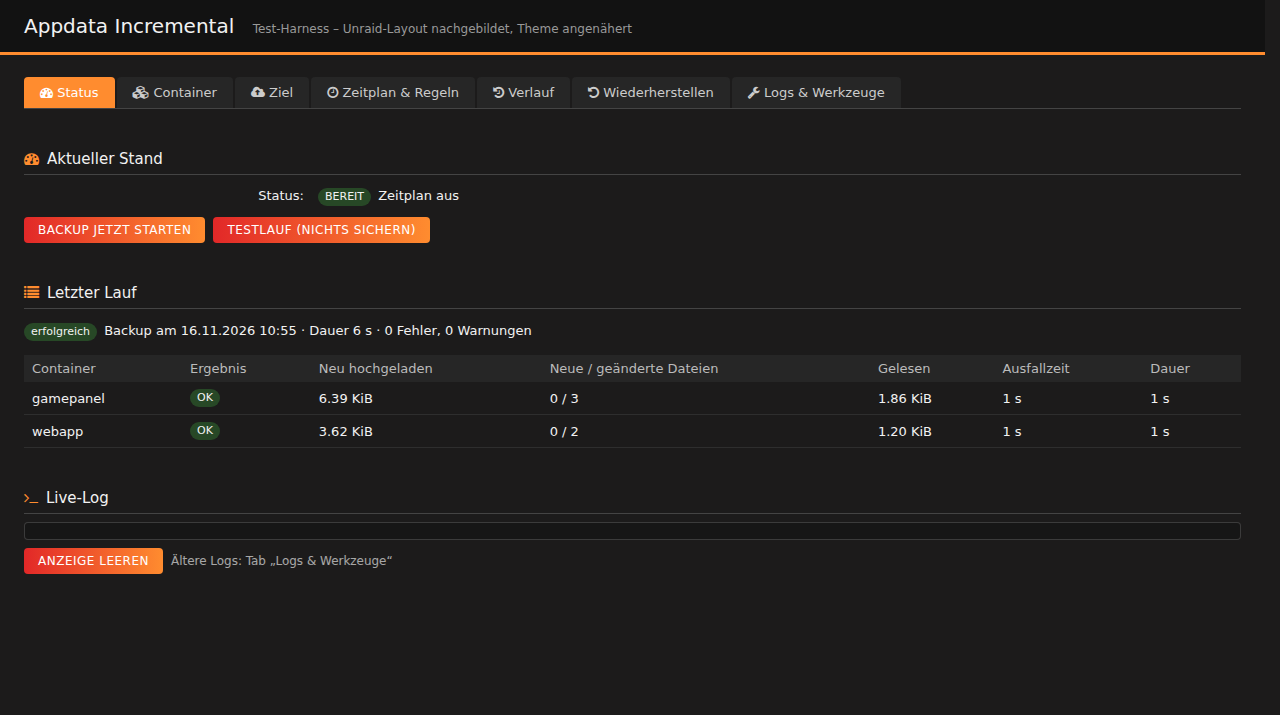
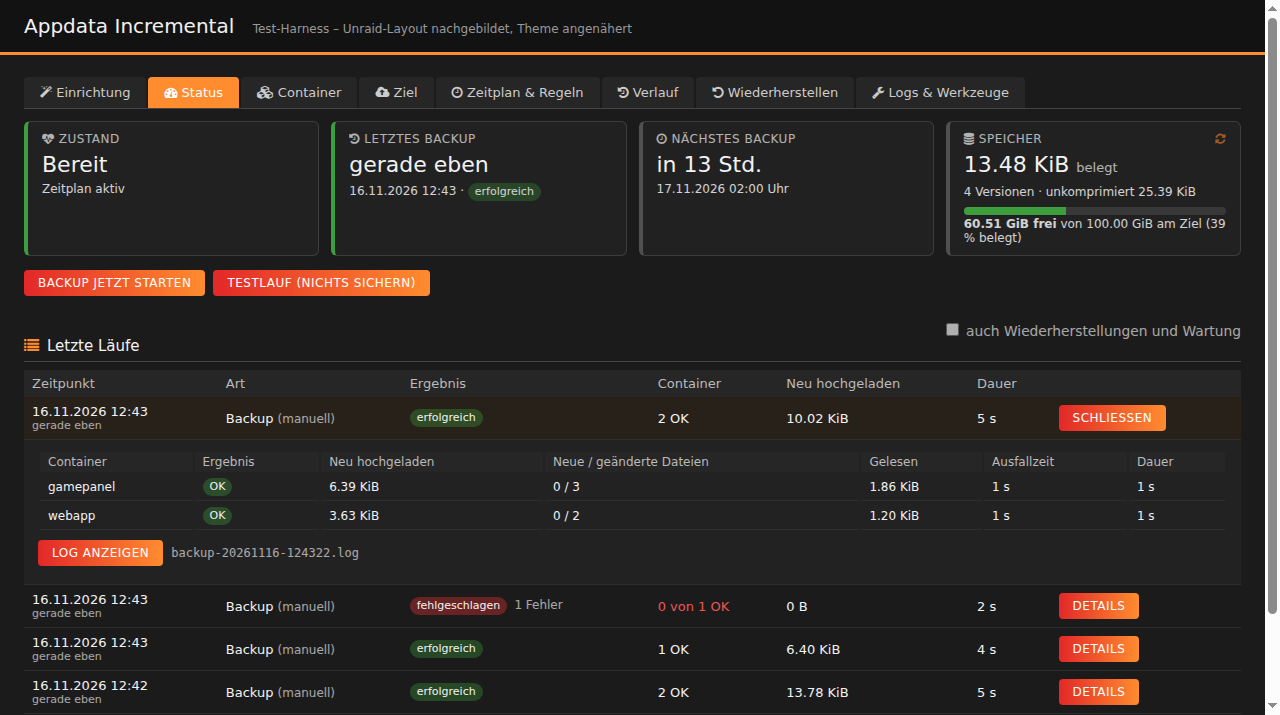
Status page: tiles, running job, run history, storage usage
- Tiles for state, last backup, next scheduled backup (cron next-run),
  storage (repository size via restic stats, versions, free space at the
  target via sftp df or local disk)
- Running job panel with container x of y, overall progress, elapsed time
- History of the last runs (kept in state) with per-container details and
  log per run; repository stats refreshed after each successful backup

diff --git a/src/usr/local/emhttp/plugins/appdata-incremental/js/aib.js b/src/usr/local/emhttp/plugins/appdata-incremental/js/aib.js
@@ -73,8 +73,26 @@
   };
 
   // ------------------------------------------------------------------ status
+  A.ago = function (iso, now) {
+    if (!iso) return '';
+    var s = Math.round(((now ? new Date(now) : new Date()) - new Date(iso)) / 1000);
+    if (s < 60) return 'gerade eben';
+    if (s < 3600) return 'vor ' + Math.round(s / 60) + ' min';
+    if (s < 86400) return 'vor ' + Math.round(s / 3600) + ' Std.';
+    return 'vor ' + Math.round(s / 86400) + ' Tagen';
+  };
+  A.until = function (iso, now) {
+    if (!iso) return '';
+    var s = Math.round((new Date(iso) - (now ? new Date(now) : new Date())) / 1000);
+    if (s < 3600) return 'in ' + Math.max(1, Math.round(s / 60)) + ' min';
+    if (s < 86400) return 'in ' + Math.round(s / 3600) + ' Std.';
+    return 'in ' + Math.round(s / 86400) + ' Tagen';
+  };
+  var RES = { ok: ['green', 'erfolgreich'], warning: ['orange', 'mit Warnungen'], error: ['red', 'fehlgeschlagen'] };
+  var CRES = { ok: ['green', 'OK'], warning: ['orange', 'Warnung'], error: ['red', 'Fehler'], cancelled: ['red', 'abgebrochen'], pending: ['red', 'abgebrochen'] };
+
   var Status = {
-    file: '', offset: 0, timer: null, wasRunning: false,
+    file: '', offset: 0, timer: null, wasRunning: false, s: null, open: {},
     init: function () {
       var $s = $('#aib-status'); if (!$s.length) return;
       $('#aib-run-all').on('click', function () {
@@ -86,22 +104,30 @@
           A.api('cancel').then(function (d) { A.msg('#aib-status-msg', d.message, 'info'); Status.poll(); }, function (e) { A.msg('#aib-status-msg', e, 'err'); });
         }, true);
       });
-      $('#aib-log-clear').on('click', function () { $('#aib-livelog').text(''); });
+      $('#aib-store-refresh').on('click', function (e) { e.preventDefault(); Status.storage(true); });
+      $('#aib-hist-all').on('change', function () { if (Status.s) Status.runs(Status.s); });
+      $('#aib-runs').on('click', '.aib-rundet', function () {
+        var k = String($(this).data('k')); Status.open[k] = !Status.open[k]; Status.runs(Status.s);
+      }).on('click', '.aib-runlog', function () {
+        var n = $(this).data('log'), $box = $(this).closest('td').find('.aib-runlogbox');
+        A.api('log', { name: n }).then(function (r) { $box.text(r.data).show(); }, function (e) { $box.text(e).show(); });
+      });
       Status.poll();
+      Status.storage(false);
     },
     start: function (kind, cts) {
       A.msg('#aib-status-msg', '');
       return A.api('run', { kind: kind, containers: cts }).then(function () {
-        A.msg('#aib-status-msg', kind === 'dryrun' ? 'Testlauf gestartet – es wird nichts gesichert und kein Container gestoppt.' : 'Gestartet.', 'ok');
-        Status.file = ''; Status.offset = 0; $('#aib-livelog').text(''); Status.poll();
+        A.msg('#aib-status-msg', kind === 'dryrun' ? 'Testlauf gestartet – es wird nichts gesichert und kein Container gestoppt.' : 'Backup gestartet.', 'ok');
+        Status.file = ''; Status.offset = 0; $('#aib-livelog').text(''); $('#aib-live').prop('open', true); Status.poll();
       }, function (e) { A.msg('#aib-status-msg', e, 'err'); });
     },
     poll: function () {
       clearTimeout(Status.timer);
       A.api('state').then(function (s) {
-        Status.render(s);
+        Status.s = s; Status.render(s);
         if (s.running || Status.wasRunning || !Status.file) Status.tail();
-        if (Status.wasRunning && !s.running) { if (A.History) A.History.load(false); if (A.Tools) A.Tools.logs(); }
+        if (Status.wasRunning && !s.running) { if (A.History) A.History.load(false); if (A.Tools) A.Tools.logs(); Status.storage(false); }
         Status.wasRunning = s.running;
         Status.timer = setTimeout(Status.poll, s.running ? 2000 : 15000);
       }, function () { Status.timer = setTimeout(Status.poll, 15000); });
@@ -119,40 +145,93 @@
         $('#aib-logname').text(d.file || '');
       });
     },
+    tile: function (id, val, sub, cls) {
+      var $t = $('#' + id);
+      $t.removeClass('green orange red').addClass(cls || '');
+      $t.find('.aib-tile-v').html(val); $t.find('.aib-tile-s').first().html(sub || '');
+    },
+    storage: function (refresh) {
+      var $t = $('#aib-t-store');
+      if (refresh) $t.find('.aib-tile-v').html('<i class="fa fa-spinner fa-spin"></i>');
+      A.api('storage', { refresh: refresh ? 1 : 0 }).then(function (d) {
+        var r = d.repo, t = d.target;
+        $t.find('.aib-tile-v').html(r && r.stored !== null ? A.human(r.stored) + ' <span class="aib-tile-unit">belegt</span>' : '–');
+        $t.find('.aib-tile-s').first().html(r ? (r.snapshots !== null ? r.snapshots + ' Versionen' : '') +
+          (r.uncompressed ? ' · unkomprimiert ' + A.human(r.uncompressed) : '') : 'noch keine Daten');
+        if (t && t.free !== null && t.total) {
+          var pct = Math.round(100 * (t.total - t.free) / t.total);
+          $t.find('.aib-bar').show().children().css('width', pct + '%').toggleClass('warn', pct >= 85);
+          $t.find('.aib-tile-s2').html('<b>' + A.human(t.free) + ' frei</b> von ' + A.human(t.total) + ' am Ziel (' + pct + ' % belegt)');
+        } else {
+          $t.find('.aib-bar').hide();
+          $t.find('.aib-tile-s2').text(t && t.error ? 'Freier Platz am Ziel: ' + t.error : '');
+        }
+      }, function (e) { $t.find('.aib-tile-v').text('–'); $t.find('.aib-tile-s2').text(e); });
+    },
     render: function (s) {
-      var phases = { start: 'Start', stop: 'Container werden gestoppt', snapshot: 'Snapshot', backup: 'Sicherung läuft', forget: 'Aufbewahrung', prune: 'Aufräumen', check: 'Prüfung', restore: 'Wiederherstellung', idle: 'Bereit' };
-      var $b = $('#aib-state');
-      if (s.running) {
-        var t = (s.kind || 'Vorgang') + ' läuft seit ' + A.date(s.started) + ' – ' + (phases[s.phase] || s.phase || '') + (s.current ? ' (' + s.current + ')' : '');
-        $b.html('<span class="aib-badge orange">LÄUFT</span> ' + A.esc(t));
-        var p = s.progress;
-        if (p && s.phase === 'backup') {
-          $('#aib-progress').show().children().css('width', Math.min(100, p.percent || 0) + '%');
-          $('#aib-progress-text').text(p.container + ': ' + (p.percent || 0) + ' % – ' + A.human(p.bytes_done) + ' von ' + A.human(p.total_bytes) + ', ' + (p.files_done || 0) + ' von ' + (p.total_files || 0) + ' Dateien');
-        } else { $('#aib-progress').hide(); $('#aib-progress-text').text(''); }
-        $('#aib-cancel').show(); $('#aib-run-all,#aib-run-dry').prop('disabled', true);
-      } else {
-        $b.html('<span class="aib-badge green">BEREIT</span> ' + (s.schedule_active ? 'Zeitplan aktiv (' + A.esc(s.schedule) + ')' : 'Zeitplan aus'));
-        $('#aib-progress').hide(); $('#aib-progress-text').text('');
-        $('#aib-cancel').hide(); $('#aib-run-all,#aib-run-dry').prop('disabled', !s.configured);
-      }
+      var phases = { start: 'Vorbereitung', stop: 'Container werden gestoppt', snapshot: 'Snapshot wird erstellt', backup: 'Daten werden gesichert', forget: 'Alte Versionen aufräumen',
+        prune: 'Speicher aufräumen', check: 'Prüfung', restore: 'Wiederherstellung', unlock: 'Sperren lösen', idle: '' };
       $('#aib-setup-hint').toggle(!s.configured);
-      var l = s.last, $t = $('#aib-last');
-      if (!l) { $t.html('<p class="aib-muted">Noch kein Lauf.</p>'); return; }
-      var cls = { ok: 'green', warning: 'orange', error: 'red' }[l.result] || '';
-      var txt = { ok: 'erfolgreich', warning: 'mit Warnungen', error: 'fehlgeschlagen' }[l.result] || l.result;
-      var h = '<p><span class="aib-badge ' + cls + '">' + A.esc(txt) + '</span> ' + A.esc(l.kind) + ' am ' + A.date(l.finished) +
-        ' · Dauer ' + A.dur(l.duration) + ' · ' + l.errors + ' Fehler, ' + l.warnings + ' Warnungen</p>';
-      var rows = '';
-      $.each(l.containers || {}, function (n, r) {
-        var rc = { ok: 'green', warning: 'orange', error: 'red', cancelled: 'red' }[r.status] || '';
-        var rt = { ok: 'OK', warning: 'Warnung', error: 'Fehler', cancelled: 'abgebrochen', pending: 'abgebrochen' }[r.status] || r.status;
-        rows += '<tr><td>' + A.esc(n) + '</td><td><span class="aib-badge ' + rc + '">' + A.esc(rt) + '</span></td><td>' + A.human(r.data_added) +
-          '</td><td>' + (r.files_new === null || r.files_new === undefined ? '–' : r.files_new + ' / ' + r.files_changed) + '</td><td>' + A.human(r.total_bytes) +
-          '</td><td>' + (r.downtime ? A.dur(r.downtime) : '–') + '</td><td>' + A.dur(r.duration) + '</td></tr>';
+      // tile: state
+      if (s.running) Status.tile('aib-t-state', 'Läuft', A.esc(s.kind || 'Vorgang'), 'orange');
+      else if (!s.configured) Status.tile('aib-t-state', 'Nicht eingerichtet', '<a href="#" onclick="AIB.gotoTab(\'Einrichtung\');return false">Einrichtung starten</a>', 'orange');
+      else if (s.last && s.last.result === 'error') Status.tile('aib-t-state', 'Achtung', 'letzter Lauf fehlgeschlagen', 'red');
+      else Status.tile('aib-t-state', 'Bereit', s.schedule_active ? 'Zeitplan aktiv' : 'Zeitplan aus', 'green');
+      // tile: last backup
+      var lb = null; $.each(s.history || [], function (_, h) { if (!lb && h.kind === 'Backup') lb = h; });
+      if (lb) { var rr = RES[lb.result] || ['', lb.result]; Status.tile('aib-t-last', A.ago(lb.finished, s.now), A.date(lb.finished) + ' · <span class="aib-badge ' + rr[0] + '">' + rr[1] + '</span>', rr[0]); }
+      else Status.tile('aib-t-last', 'noch keins', '', '');
+      // tile: next
+      Status.tile('aib-t-next', s.next_run ? A.until(s.next_run, s.now) : 'kein Zeitplan', s.next_run ? A.date(s.next_run) + ' Uhr' :
+        '<a href="#" onclick="AIB.gotoTab(\'Zeitplan & Regeln\');return false">Zeitplan einstellen</a>', '');
+      // running job
+      if (s.running) {
+        $('#aib-job').show();
+        $('#aib-job-title').text(s.kind || 'Vorgang');
+        $('#aib-job-time').text('seit ' + A.date(s.started) + ' (' + A.dur((new Date(s.now) - new Date(s.started)) / 1000) + ')');
+        var ph = phases[s.phase] || s.phase || '';
+        var cnt = s.run_total ? ' – Container ' + Math.min((s.run_done || 0) + 1, s.run_total) + ' von ' + s.run_total : '';
+        $('#aib-job-phase').html('<b>' + A.esc(ph) + '</b>' + (s.current ? ': ' + A.esc(s.current) : '') + A.esc(cnt));
+        var p = s.progress, pct = 0, det = '';
+        if (s.run_total) pct = 100 * (s.run_done || 0) / s.run_total;
+        if (p && s.phase === 'backup') {
+          if (s.run_total) pct += (p.percent || 0) / s.run_total;
+          det = A.esc(p.container) + ': ' + (p.percent || 0) + ' % · ' + A.human(p.bytes_done) + ' von ' + A.human(p.total_bytes) + ' · ' + (p.files_done || 0) + ' von ' + (p.total_files || 0) + ' Dateien';
+        }
+        $('#aib-job-bar').css('width', Math.min(100, pct) + '%');
+        $('#aib-job-detail').html(det);
+        $('#aib-run-all,#aib-run-dry').prop('disabled', true);
+      } else {
+        $('#aib-job').hide();
+        $('#aib-run-all,#aib-run-dry').prop('disabled', !s.configured);
+      }
+      Status.runs(s);
+    },
+    runs: function (s) {
+      var all = $('#aib-hist-all').prop('checked'), h = '', shown = 0;
+      $.each(s.history || [], function (i, r) {
+        if (!all && r.kind !== 'Backup' && r.kind !== 'Testlauf') return;
+        if (++shown > 25) return;
+        var k = String(r.finished || i), rr = RES[r.result] || ['', r.result], cts = r.containers || {}, n = 0, bad = 0;
+        $.each(cts, function (_, c) { n++; if (c.status !== 'ok') bad++; });
+        var ctTxt = n ? (bad ? (n - bad) + ' von ' + n + ' OK' : n + ' OK') : '–';
+        h += '<tr' + (Status.open[k] ? ' class="aib-open"' : '') + '><td>' + A.date(r.finished) + '<div class="aib-muted" style="font-size:11px">' + A.ago(r.finished, s.now) + '</div></td>' +
+          '<td>' + A.esc(r.kind) + (r.trigger ? ' <span class="aib-muted">(' + A.esc(r.trigger) + ')</span>' : '') + '</td>' +
+          '<td><span class="aib-badge ' + rr[0] + '">' + rr[1] + '</span>' + (r.errors ? ' <span class="aib-muted">' + r.errors + ' Fehler</span>' : '') + '</td>' +
+          '<td>' + (bad ? '<span style="color:#e55">' + ctTxt + '</span>' : ctTxt) + '</td><td>' + (r.kind === 'Backup' ? A.human(r.data_added) : '–') + '</td><td>' + A.dur(r.duration) + '</td>' +
+          '<td><input type="button" class="aib-rundet" data-k="' + A.esc(k) + '" value="' + (Status.open[k] ? 'Schließen' : 'Details') + '"></td></tr>';
+        if (Status.open[k]) {
+          var rows = '';
+          $.each(cts, function (name, c) {
+            var cr = CRES[c.status] || ['', c.status];
+            rows += '<tr><td>' + A.esc(name) + '</td><td><span class="aib-badge ' + cr[0] + '">' + cr[1] + '</span></td><td>' + A.human(c.data_added) + '</td><td>' +
+              (c.files_new === null || c.files_new === undefined ? '–' : c.files_new + ' / ' + c.files_changed) + '</td><td>' + A.human(c.total_bytes) + '</td><td>' + (c.downtime ? A.dur(c.downtime) : '–') + '</td><td>' + A.dur(c.duration) + '</td></tr>';
+          });
+          h += '<tr class="aib-detail"><td colspan="7">' + (rows ? '<table class="aib-table aib-sub"><thead><tr><th>Container</th><th>Ergebnis</th><th>Neu hochgeladen</th><th>Neue / geänderte Dateien</th><th>Gelesen</th><th>Ausfallzeit</th><th>Dauer</th></tr></thead><tbody>' + rows + '</tbody></table>' : '') +
+            (r.log ? '<div class="aib-row"><input type="button" class="aib-runlog" data-log="' + A.esc(r.log) + '" value="Log anzeigen"> <span class="aib-muted aib-mono">' + A.esc(r.log) + '</span></div><div class="aib-log aib-runlogbox" style="display:none"></div>' : '') + '</td></tr>';
+        }
       });
-      if (rows) h += '<table class="tablesorter shift aib-table"><thead><tr><th>Container</th><th>Ergebnis</th><th>Neu hochgeladen</th><th>Neue / geänderte Dateien</th><th>Gelesen</th><th>Ausfallzeit</th><th>Dauer</th></tr></thead><tbody>' + rows + '</tbody></table>';
-      $t.html(h);
+      $('#aib-runs').html(h || '<tr><td colspan="7" class="aib-muted">Noch keine Läufe.</td></tr>');
     }
   };
   A.Status = Status;

diff --git a/src/usr/local/emhttp/plugins/appdata-incremental/css/aib.css b/src/usr/local/emhttp/plugins/appdata-incremental/css/aib.css
@@ -73,3 +73,21 @@ dl.aib-dl dt { white-space: nowrap; }
 .aib-wz-cts label.off { opacity: .55; }
 .aib-wz-cts img, .aib-wz-cts .aib-icon-ph { width: 24px; height: 24px; border-radius: 4px; line-height: 24px; font-size: 15px; text-align: center; }
 .aib-wz-cts small { display: block; font-size: 11px; opacity: .7; }
+
+/* status page */
+.aib-tiles { display: grid; grid-template-columns: repeat(auto-fit, minmax(220px, 1fr)); gap: 12px; margin: 12px 0 14px; }
+.aib-tile { border: 1px solid rgba(128,128,128,.3); border-left: 4px solid rgba(128,128,128,.5); border-radius: 6px; padding: 10px 14px; background: rgba(128,128,128,.06); }
+.aib-tile.green { border-left-color: #3c9e3c; } .aib-tile.orange { border-left-color: #e68a00; } .aib-tile.red { border-left-color: #d33; }
+.aib-tile-h { font-size: 12px; text-transform: uppercase; letter-spacing: .5px; opacity: .7; margin-bottom: 4px; }
+.aib-tile-h a { float: right; opacity: .8; }
+.aib-tile-v { font-size: 22px; line-height: 30px; }
+.aib-tile-unit { font-size: 13px; opacity: .7; }
+.aib-tile-s { font-size: 12px; opacity: .85; margin-top: 2px; }
+.aib-bar { height: 8px; border-radius: 4px; background: rgba(128,128,128,.25); overflow: hidden; margin: 8px 0 2px; }
+.aib-bar > div { height: 100%; background: #3c9e3c; } .aib-bar > div.warn { background: #d33; }
+.aib-job { border: 1px solid #e68a00; border-radius: 6px; padding: 10px 14px; margin: 6px 0 12px; background: rgba(230,138,0,.07); }
+.aib-job-h { margin-bottom: 6px; } .aib-job .aib-progress { max-width: none; height: 14px; }
+.aib-job .aib-progress > div { background: #e68a00; }
+.aib-runs tr.aib-open > td { background: rgba(230,138,0,.06); }
+.aib-table.aib-sub { margin: 0 0 6px; } .aib-table.aib-sub th, .aib-table.aib-sub td { padding: 3px 8px; font-size: 12px; }
+details.aib-live { margin-top: 14px; } details.aib-live summary { cursor: pointer; padding: 6px 0; }

diff --git a/src/usr/local/emhttp/plugins/appdata-incremental/include/Admin.php b/src/usr/local/emhttp/plugins/appdata-incremental/include/Admin.php
@@ -226,6 +226,37 @@ final class Schedule
         throw new \InvalidArgumentException('Unbekannte Häufigkeit');
     }
 
+    /** Next start time for a 5-field cron expression (numbers, *, lists, ranges, steps). */
+    public static function nextRun(string $expr, ?int $from = null): ?int
+    {
+        $f = preg_split('/\s+/', trim($expr));
+        if (count($f) !== 5) return null;
+        $ranges = [[0, 59], [0, 23], [1, 31], [1, 12], [0, 7]];
+        $sets = [];
+        foreach ($f as $i => $field) {
+            $set = [];
+            foreach (explode(',', $field) as $part) {
+                if (!preg_match('#^(\*|\d+(?:-\d+)?)(?:/(\d+))?$#', $part, $m)) return null;
+                [$lo, $hi] = $m[1] === '*' ? $ranges[$i] : (str_contains($m[1], '-') ? array_map('intval', explode('-', $m[1])) : [(int)$m[1], (int)$m[1]]);
+                $step = isset($m[2]) ? max(1, (int)$m[2]) : 1;
+                if ($m[1] !== '*' && !str_contains($m[1], '-') && isset($m[2])) $hi = $ranges[$i][1];
+                for ($v = $lo; $v <= $hi; $v += $step) $set[$v] = true;
+            }
+            $sets[] = $set;
+        }
+        if (isset($sets[4][7])) $sets[4][0] = true;
+        $domAny = $f[2] === '*'; $dowAny = $f[4] === '*';
+        $t = (int)(floor(($from ?? time()) / 60) * 60) + 60;
+        for ($i = 0; $i < 527040; $i++, $t += 60) { // one year of minutes
+            if (!isset($sets[1][(int)date('G', $t)])) { $t += (59 - (int)date('i', $t)) * 60; continue; }
+            if (!isset($sets[0][(int)date('i', $t)]) || !isset($sets[3][(int)date('n', $t)])) continue;
+            $dom = isset($sets[2][(int)date('j', $t)]); $dow = isset($sets[4][(int)date('w', $t)]);
+            $dayOk = $domAny && $dowAny ? true : ($domAny ? $dow : ($dowAny ? $dom : ($dom || $dow)));
+            if ($dayOk) return $t;
+        }
+        return null;
+    }
+
     public static function apply(Config $cfg): string
     {
         $expr = trim((string)$cfg->get('schedule.backup', ''));
@@ -390,5 +421,75 @@ final class Doctor
             Lock::release();
         }
         return ['ok' => $ok, 'log' => $log];
+    }
+}
+
+/** Repository size (restic stats) and free space at the target. */
+final class RepoStats
+{
+    public static function refresh(Config $cfg): ?array
+    {
+        $r = new Restic($cfg);
+        if ($r->checkReady()) return null;
+        [$c, $o] = $r->run(['stats', '--mode', 'raw-data', '--json', '--no-lock'], null, false);
+        if ($c !== 0) return null;
+        $lines = array_values(array_filter(explode("\n", trim($o))));
+        $j = json_decode((string)end($lines), true);
+        if (!is_array($j)) return null;
+        $st = ['stored' => $j['total_size'] ?? null, 'uncompressed' => $j['total_uncompressed_size'] ?? null,
+               'snapshots' => $j['snapshots_count'] ?? null, 'updated' => date('c')];
+        State::update(['repo_stats' => $st]);
+        return $st;
+    }
+
+    /** @return array{free:?int,total:?int,used:?int,source:string,error:?string} */
+    public static function targetSpace(Config $cfg, bool $refresh = false): array
+    {
+        $cache = Env::tmpDir() . '/target-space.json';
+        $key = md5(Target::repository($cfg));
+        if (!$refresh && is_file($cache) && time() - filemtime($cache) < 600) {
+            $d = json_decode((string)file_get_contents($cache), true);
+            if (is_array($d) && ($d['key'] ?? '') === $key) return $d['space'];
+        }
+        $space = ['free' => null, 'total' => null, 'used' => null, 'source' => '', 'error' => null];
+        $type = (string)($cfg->get('target.type') ?? '');
+        $repo = Target::repository($cfg);
+        if ($type === 'local' || ($type === '' && str_starts_with($repo, '/'))) {
+            $p = $repo;
+            while ($p !== '/' && !is_dir($p)) $p = dirname($p);
+            $free = @disk_free_space($p); $total = @disk_total_space($p);
+            if ($free !== false && $total !== false) $space = ['free' => (int)$free, 'total' => (int)$total, 'used' => (int)($total - $free), 'source' => $p, 'error' => null];
+            else $space['error'] = 'nicht lesbar';
+        } elseif ($type === 'sftp') {
+            $space = self::sftpSpace($cfg);
+        } else {
+            $space['error'] = 'für dieses Ziel nicht verfügbar';
+        }
+        if (!is_dir(Env::tmpDir())) @mkdir(Env::tmpDir(), 0700, true);
+        @file_put_contents($cache, json_encode(['key' => $key, 'space' => $space]));
+        return $space;
+    }
+
+    private static function sftpSpace(Config $cfg): array
+    {
+        $space = ['free' => null, 'total' => null, 'used' => null, 'source' => 'sftp', 'error' => null];
+        $key = (string)$cfg->get('ssh.key_file');
+        if (!is_file($key)) { $space['error'] = 'kein Schlüssel'; return $space; }
+        $batch = Env::tmpDir() . '/sftp-df.batch';
+        if (!is_dir(Env::tmpDir())) @mkdir(Env::tmpDir(), 0700, true);
+        file_put_contents($batch, "df\n");
+        [$c, $o, $e] = Cmd::run([Env::bin('sftp'), '-b', $batch, '-P', (string)(int)$cfg->get('target.port'), '-i', (new Restic($cfg))->privateKeyCopy($key),
+            '-o', 'BatchMode=yes', '-o', 'IdentitiesOnly=yes', '-o', 'StrictHostKeyChecking=accept-new',
+            '-o', 'UserKnownHostsFile=' . $cfg->get('ssh.known_hosts'), '-o', 'ConnectTimeout=20',
+            V::user((string)$cfg->get('target.user')) . '@' . V::host((string)$cfg->get('target.host'))]);
+        if ($c !== 0) { $space['error'] = stripos($e, 'not supported') !== false ? 'vom Server nicht unterstützt' : 'nicht abrufbar'; return $space; }
+        // sftp "df": header "Size Used Avail (root) %Capacity", values in KiB
+        foreach (array_reverse(explode("\n", trim($o))) as $l) {
+            if (preg_match('/^\s*(\d+)\s+(\d+)\s+(\d+)\s+(\d+)\s+\d+%/', $l, $m)) {
+                return ['total' => (int)$m[1] * 1024, 'used' => (int)$m[2] * 1024, 'free' => (int)$m[3] * 1024, 'source' => 'sftp', 'error' => null];
+            }
+        }
+        $space['error'] = 'Antwort nicht lesbar';
+        return $space;
     }
 }

diff --git a/src/usr/local/emhttp/plugins/appdata-incremental/include/Api.php b/src/usr/local/emhttp/plugins/appdata-incremental/include/Api.php
@@ -51,7 +51,23 @@ final class Api
         $s['configured'] = !$this->restic()->checkReady();
         $s['schedule_active'] = is_file(Schedule::cronFile());
         $s['schedule'] = (string)$this->cfg->get('schedule.backup');
+        $next = $s['schedule_active'] ? Schedule::nextRun($s['schedule']) : null;
+        $s['next_run'] = $next ? date('c', $next) : null;
+        $s['now'] = date('c');
+        if (!$run) unset($s['run_total'], $s['run_done']);
+        $hist = (array)($s['history'] ?? []);
+        if (!$hist && !empty($s['last'])) { $l = $s['last']; $l['log'] = !empty($l['log']) ? basename((string)$l['log']) : null; $hist = [$l]; }
+        $s['history'] = array_slice($hist, 0, max(1, min(100, (int)($p['limit'] ?? 30))));
         return $s;
+    }
+
+    /** Repository size and free space at the target (cached; refresh=1 re-reads). */
+    private function a_storage(array $p): array
+    {
+        $refresh = self::bool($p['refresh'] ?? false);
+        $stats = State::read()['repo_stats'] ?? null;
+        if (($refresh || !$stats) && !Jobs::running() && !$this->restic()->checkReady()) $stats = RepoStats::refresh($this->cfg) ?? $stats;
+        return ['repo' => $stats, 'target' => $this->restic()->checkReady() ? null : RepoStats::targetSpace($this->cfg, $refresh)];
     }
 
     private function a_log_tail(array $p): array

diff --git a/src/usr/local/emhttp/plugins/appdata-incremental/include/Backup.php b/src/usr/local/emhttp/plugins/appdata-incremental/include/Backup.php
@@ -10,6 +10,7 @@ final class Backup
 
     /** @var array<string,array> */
     public array $results = [];
+    private int $done = 0;
 
     public function __construct(private Config $cfg, private Restic $restic, private bool $dry = false) {}
 
@@ -179,6 +180,8 @@ final class Backup
                 Fs::human((float)($summary['total_bytes_processed'] ?? 0)), substr((string)($summary['snapshot_id'] ?? '-'), 0, 8)));
         }
         $this->results[$name] = array_merge($this->results[$name] ?? [], $res);
+        $this->done++;
+        State::update(['run_done' => $this->done, 'progress' => null]);
     }
 
     /**
@@ -221,6 +224,8 @@ final class Backup
         if (!$this->dry) Storage::cleanupStale($this->cfg);
         $groups = $this->plan($only);
         Log::info("Plan:\n" . rtrim($this->describePlan($groups)));
+        $this->done = 0;
+        State::update(['run_total' => array_sum(array_map(fn($g) => count($g['members']), $groups)), 'run_done' => 0]);
         $useSnap = $this->cfg->get('snapshot.mode') === 'auto' && !$this->dry;
         $timeout = (int)$this->cfg->get('stop_timeout', 60);
         foreach ($groups as $gname => $g) {

diff --git a/README.md b/README.md
@@ -69,7 +69,7 @@ Vorbereitete Einstellungen, etwa Regeln und Ausschlüsse, lassen sich unter *Zei
 | Tab | Inhalt |
 |---|---|
 | Einrichtung | Assistent für die Ersteinrichtung; danach Übersicht und „erneut durchlaufen“ |
-| Status | Zustand, Fortschritt, „Backup jetzt starten“, Testlauf, Abbrechen, letzter Lauf je Container (neue Daten, Ausfallzeit), Live-Log |
+| Status | Kacheln (Zustand, letztes/nächstes Backup, Speicher belegt/frei), laufender Vorgang mit Fortschritt und Abbrechen, Liste der letzten Läufe mit Details und Log, Live-Log |
 | Container | alle Container mit Icon, Status und Pfaden; sichern, stoppen, Gruppe, Reihenfolge, Ausschlüsse (Ordner-Browser, Vorlagen), Zusatzpfade, „Jetzt sichern“ |
 | Ziel | Backup-Ziel, SSH-Schlüssel, Repository-Passwort, Verbindung testen, Repository initialisieren |
 | Zeitplan & Regeln | Zeitplan, prune und check, Aufbewahrung, Benachrichtigungen, Snapshot-Optionen, globale Ausschlüsse, Regeln für neue Container, Import und Export |

diff --git a/CHANGELOG.md b/CHANGELOG.md
@@ -1,3 +1,9 @@
+###2026.11.16c
+- Status-Seite neu: Kacheln für Zustand, letztes Backup, nächstes Backup und Speicher (belegt im Backup-Speicher, Versionen, freier Platz am Ziel mit Balken)
+- Laufender Vorgang mit „Container x von y“, Gesamtfortschritt, Laufzeit und Abbrechen
+- Liste der letzten Läufe mit Ergebnis, Container-Details und Log je Lauf (optional auch Wiederherstellungen und Wartung)
+- Speicherstatistik wird nach jedem Backup aktualisiert; freier Platz per SFTP „df“ bzw. lokal
+
 ###2026.11.16b
 - Fix: In Unraid kam bei jeder Aktion „Ungültiges CSRF-Token“ (Unraid prüft das Token selbst und entfernt es danach – das Plugin prüft jetzt nur noch, wenn diese Prüfung fehlt)
 - Neu: Einrichtungs-Assistent als erster Tab „Einrichtung“ – Schritt für Schritt: Ziel (Storage Box, SFTP oder Ordner), Anmeldung mit Schlüssel, Backup-Passwort, Verbindung, Container, Zeitplan, Fertig
